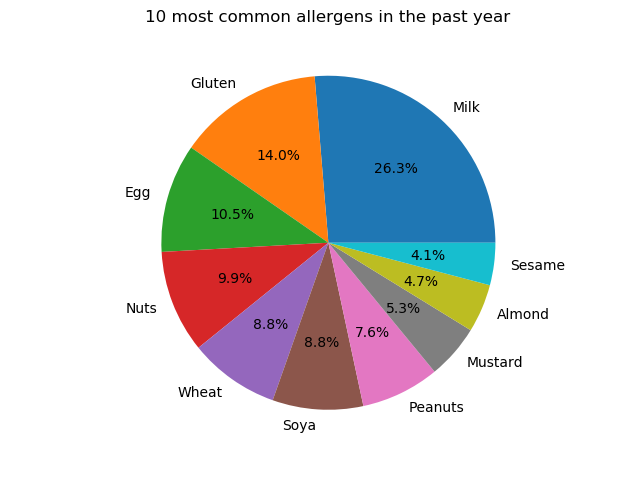
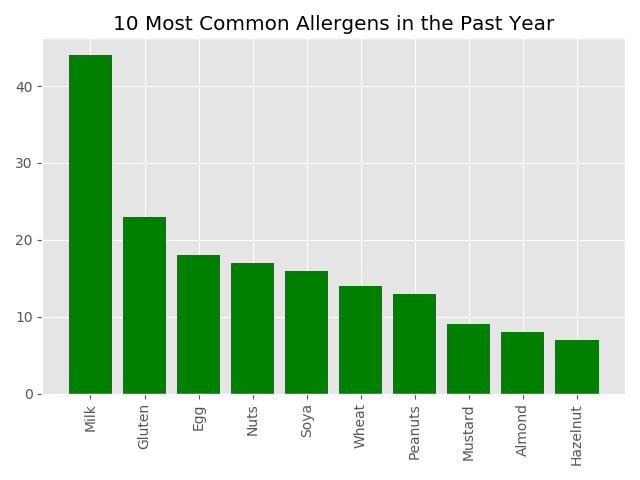
changed pie to column chart

diff --git a/README.md b/README.md
@@ -12,35 +12,38 @@ These functions also parse the HTTP response, so the user can simply access the 
 from foodAlertsAPI import foodAlertsAPI
 
 f = foodAlertsAPI()
+
 yearAgo = (datetime.now() - timedelta(days=365)).isoformat()
-alerts = f.getAlerts(yearAgo)   # getting alerts from the past year
+alerts = f.getAlerts(yearAgo)
 
 allergenCounts = defaultdict(int)
 
+alert: Alert  # type hinting for code completion
 for alert in alerts:
-    allergens = alert.allergenLabels()  # convenience functions such as allergenLabels() make it easy to access attributes in a complex data structure
+    allergens = alert.allergenLabels()
     for allergen in allergens:
         allergenCounts[allergen] += 1
 
 # get the 10 most frequently occurring allergens
-sortedAllergens = [(k, v) for k, v in sorted(allergenCounts.items(), key=lambda item: item[1], reverse=True)][:10]
-totalAllergensCount = sum(v for k, v in sortedAllergens)
+sortedAllergens = [
+    (k, v)
+    for k, v in sorted(
+        allergenCounts.items(), key=lambda item: item[1], reverse=True
+    )][:10]
 
 labels = [k for (k, v) in sortedAllergens]
-sizes = [v/totalAllergensCount for k, v in sortedAllergens]
+heights = [v for k, v in sortedAllergens]
 
-fig1, ax1 = plt.subplots()
-ax1.pie(sizes, labels=labels, autopct='%1.1f%%')
-ax1.set_title('10 Most Common Allergens in the Past Year')
-ax1.title.set_position([.5, 1.075])
-ax1.axis('equal')
-
+plt.bar(labels, heights, color="green")
+plt.xticks(rotation="vertical")
+plt.title("10 Most Common Allergens in the Past Year")
+plt.tight_layout()
 plt.show()
 ```
 
-![Allergens pie chart](top_allergens.png)
+![Allergens column chart](top_allergens.png)
 
-The example above plots a pie chart of the 10 most frequently occurring allergens in alerts over the past year. The entirety of data acquisition and parsing has been accomplished using only `getAlerts()` and `allergenLabels()`, allowing for succinct and readable code. 
+The example above plots a column chart of the 10 most frequently occurring allergens in alerts over the past year. The entirety of data acquisition and parsing has been accomplished using only `getAlerts()` and `allergenLabels()`, allowing for succinct and readable code. 
 
 ## Documentation Summary
 
